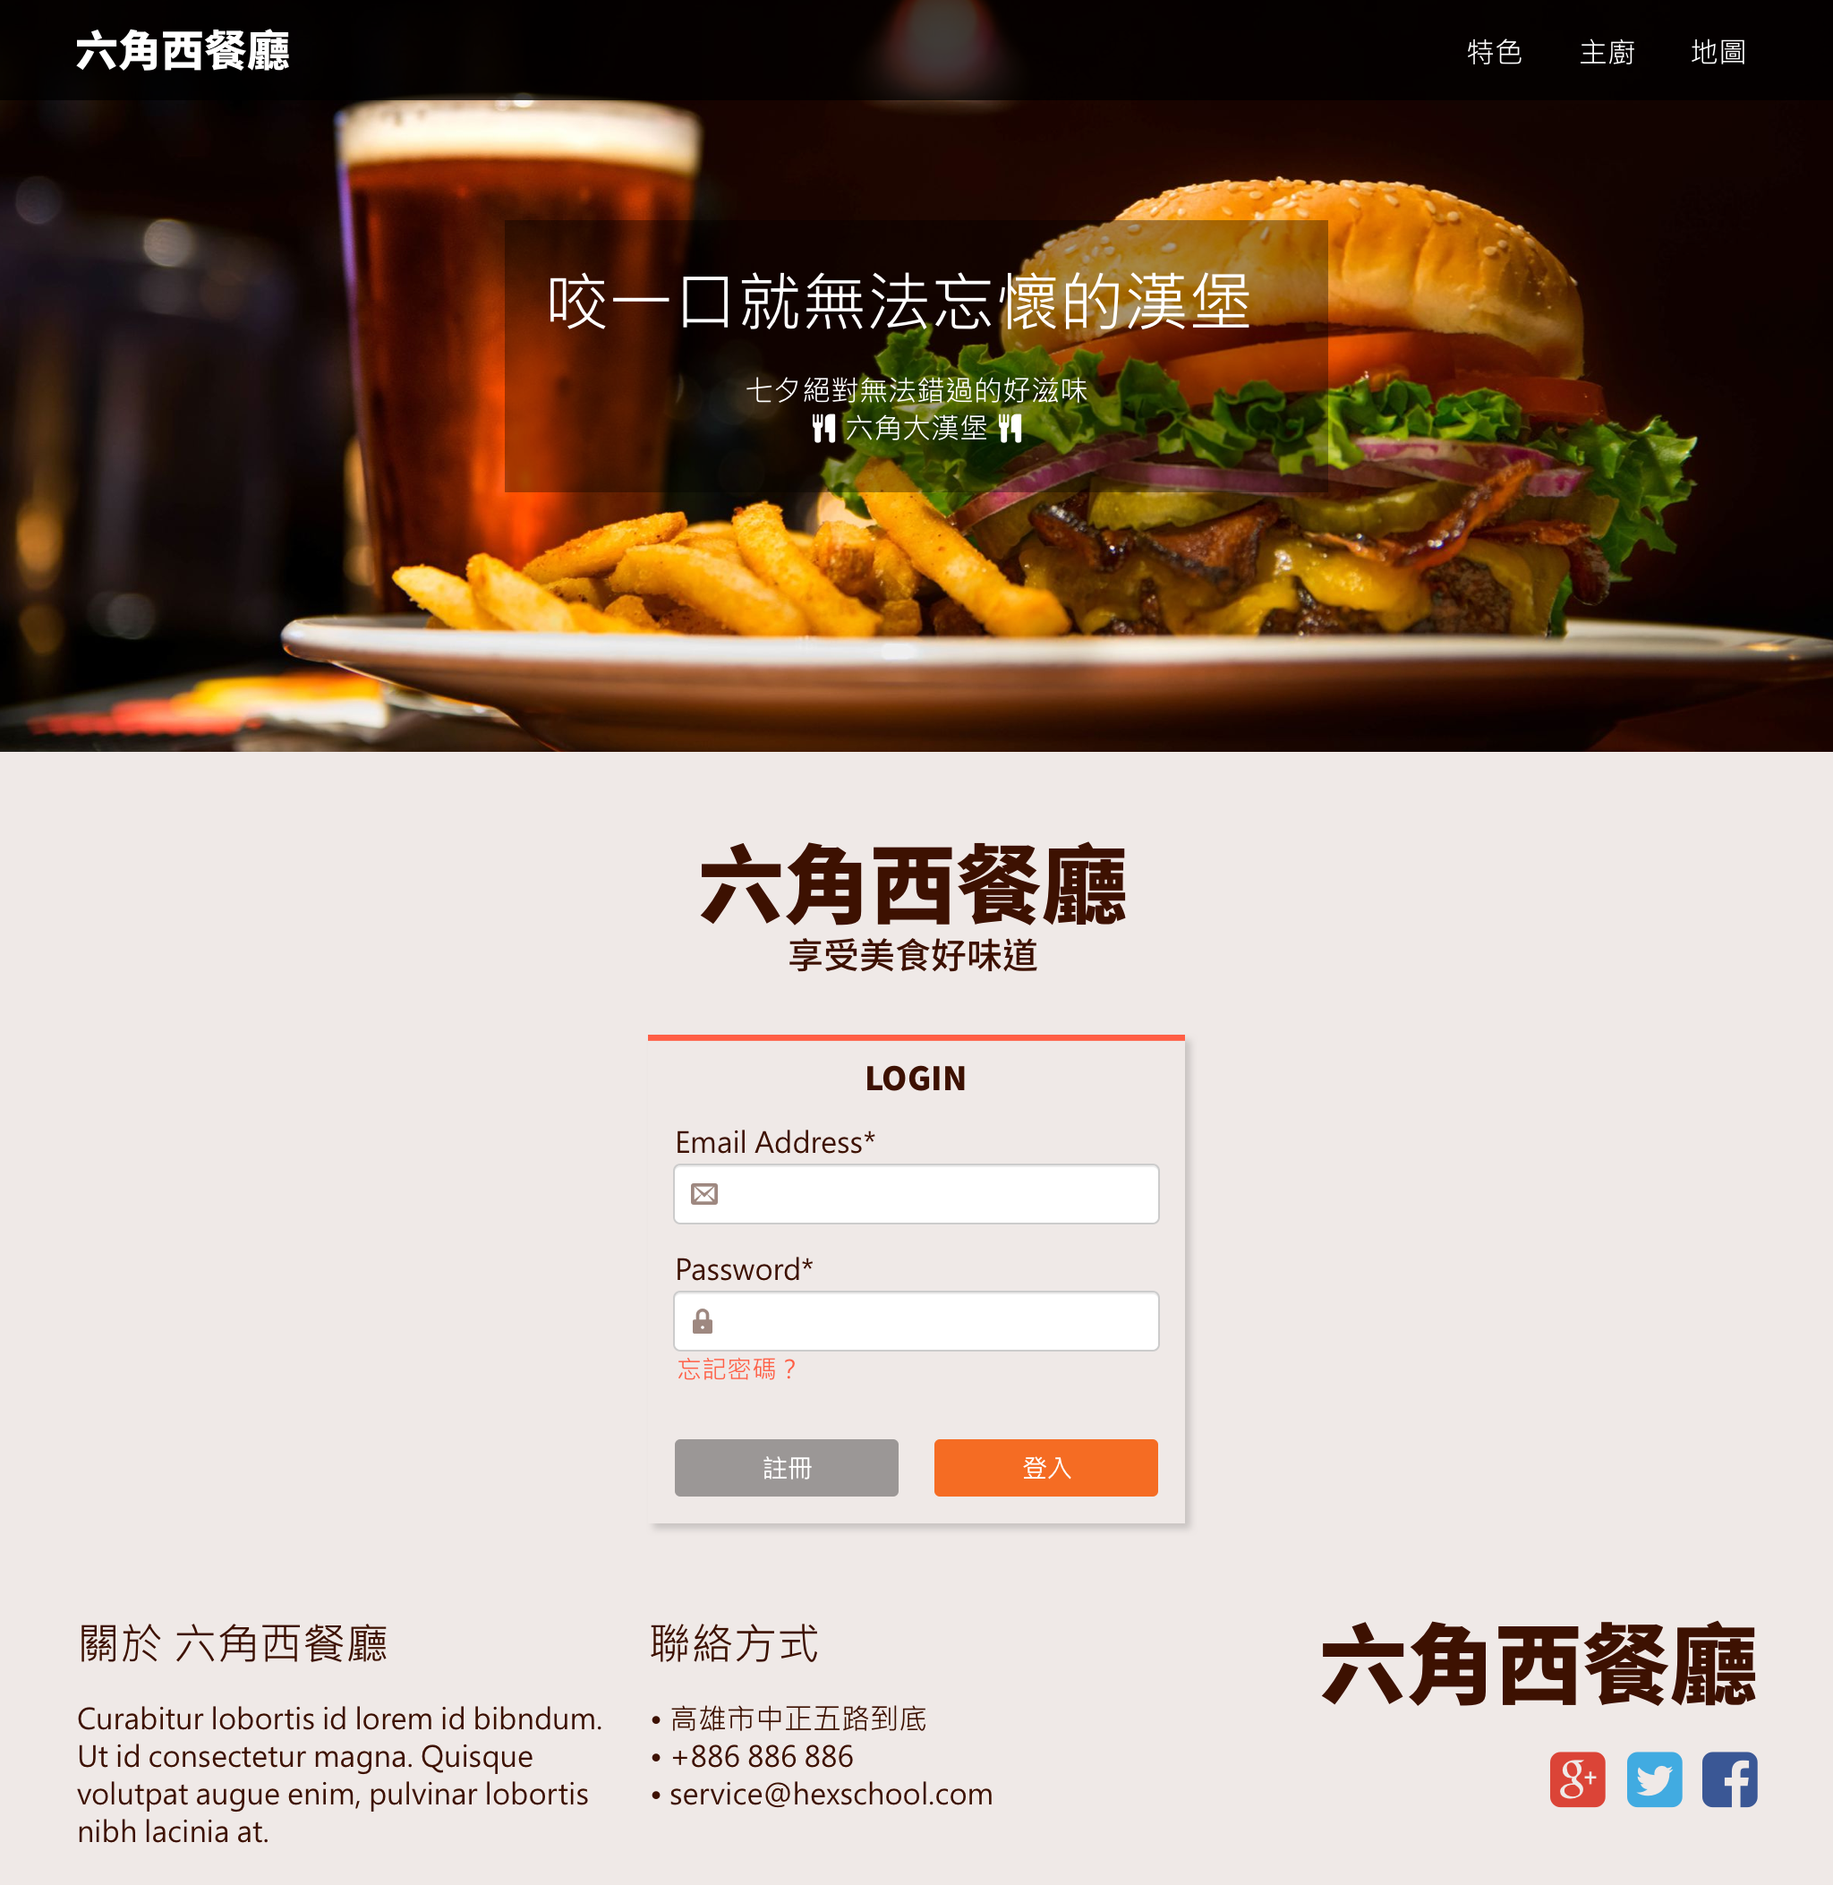
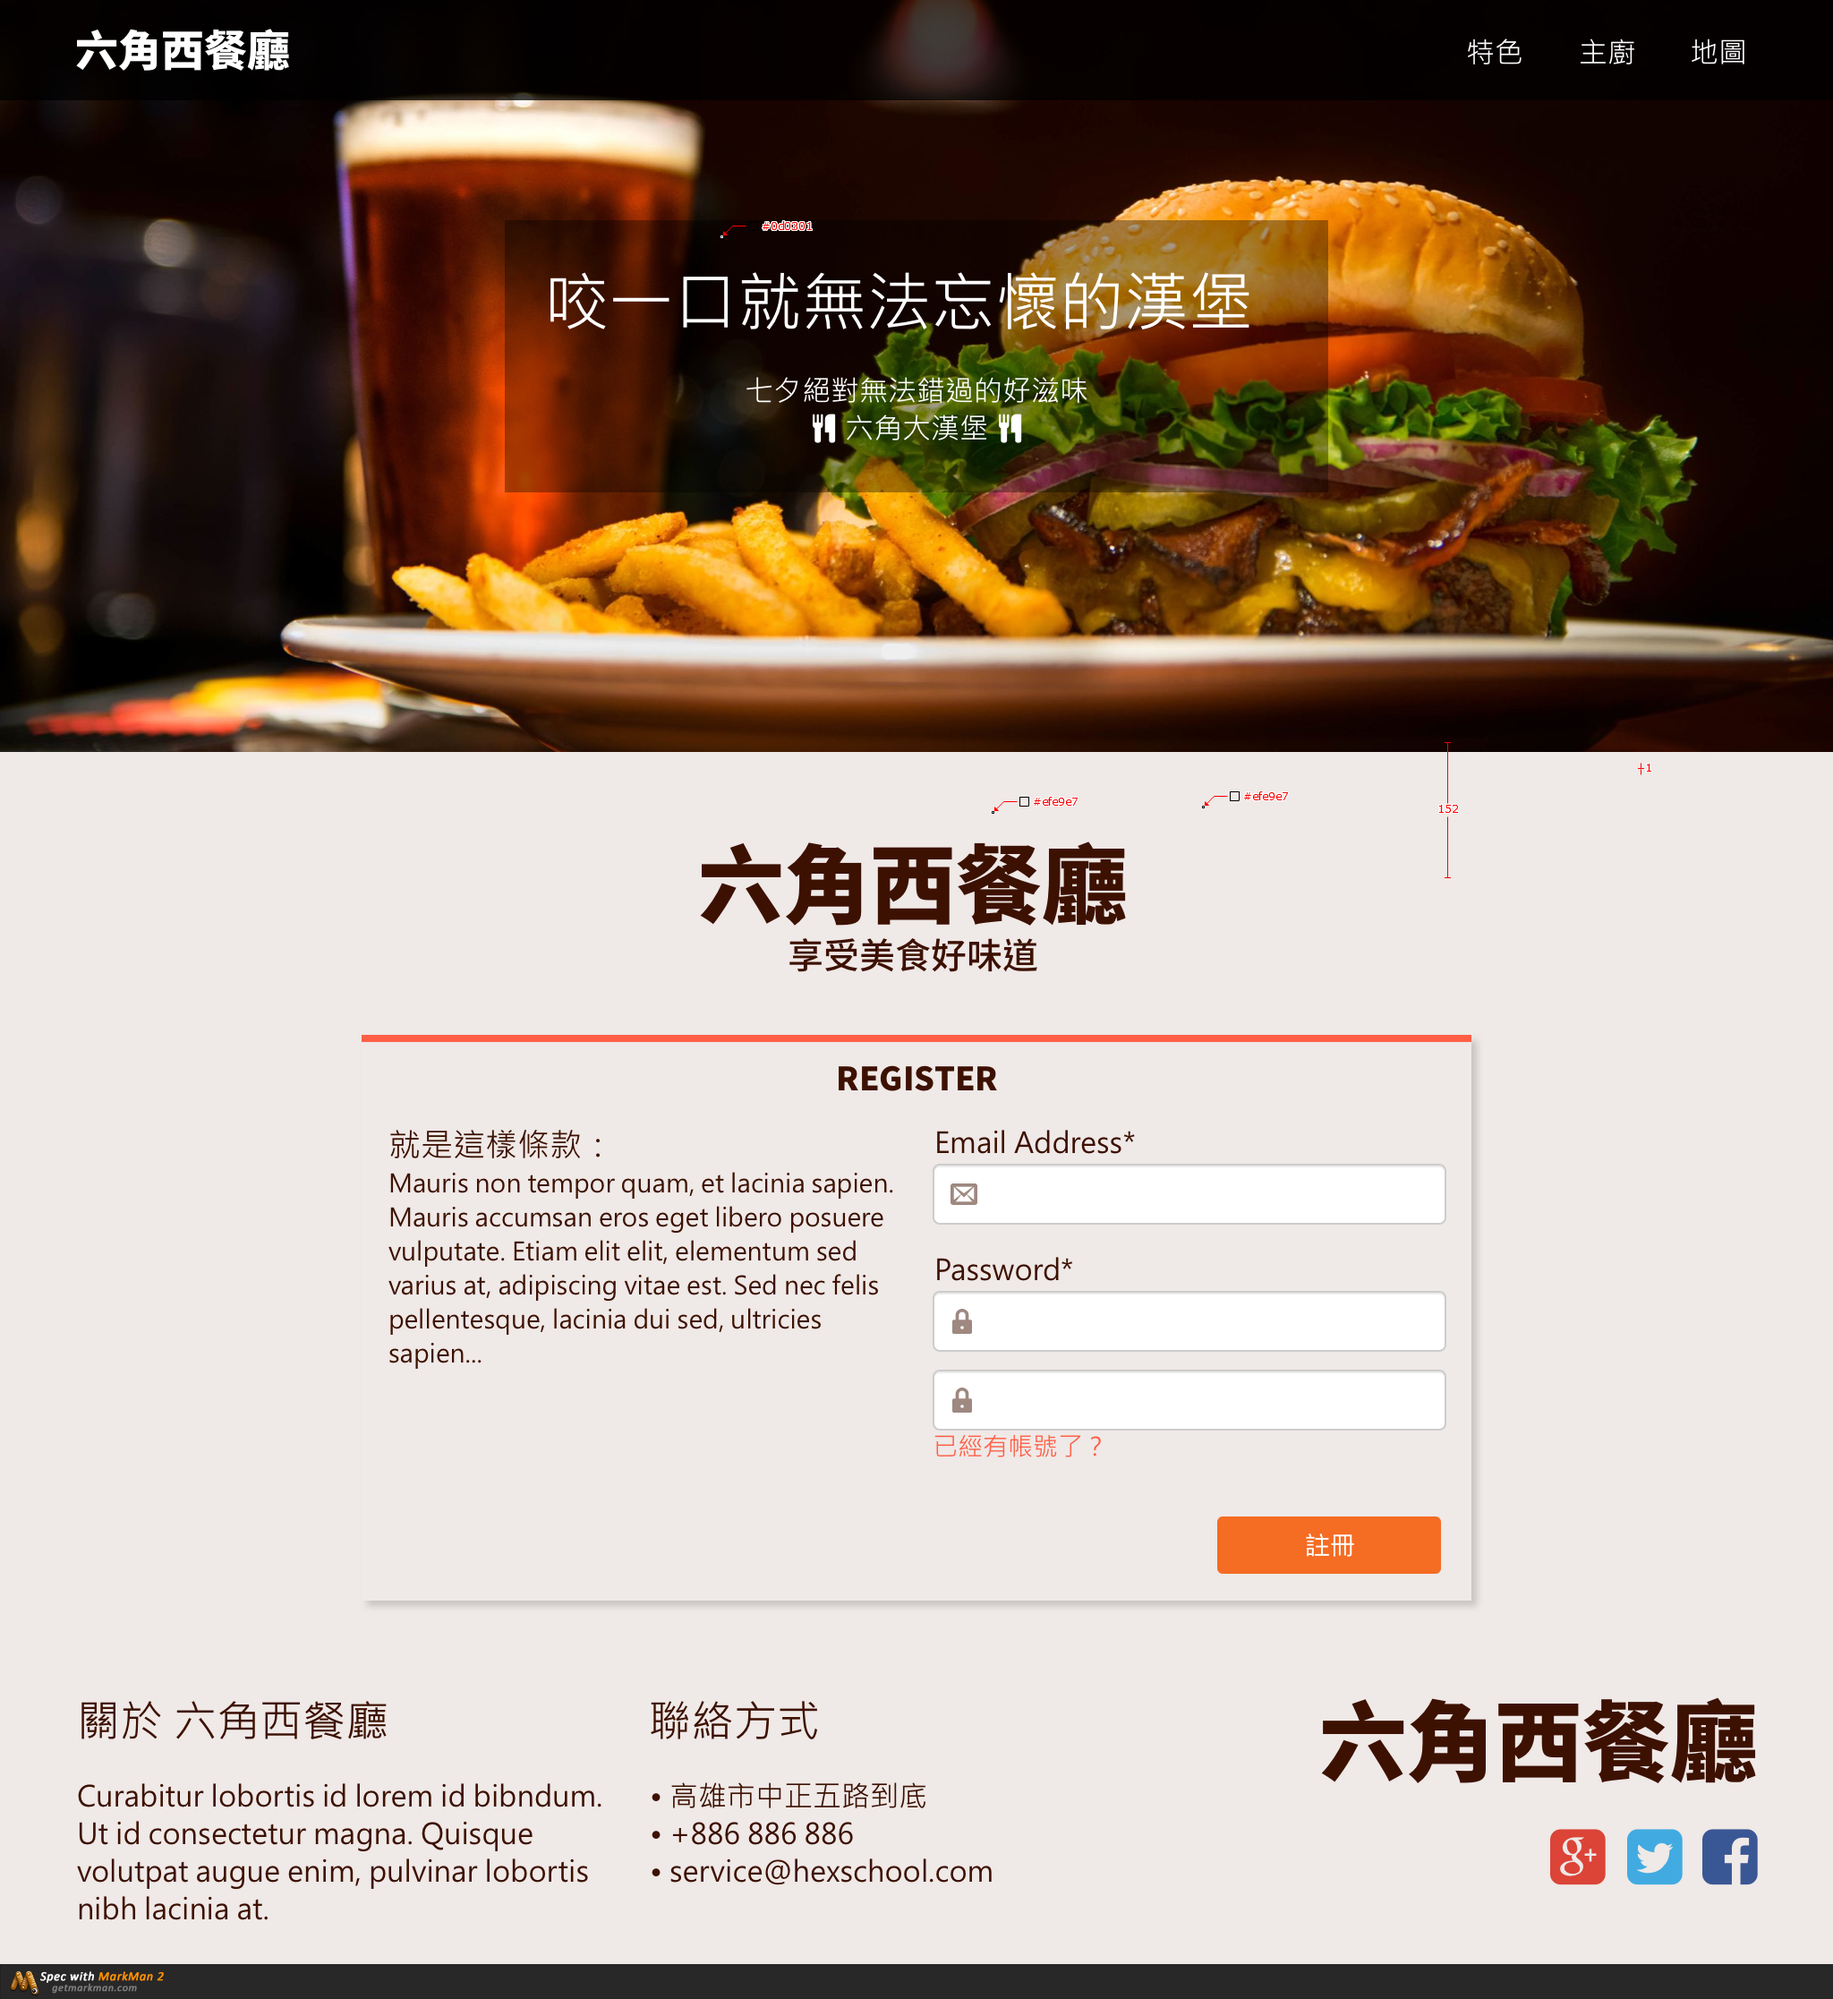
complete 1

diff --git a/index.html b/index.html
@@ -12,41 +12,137 @@
 <body>
 
 
+    <div class="wrap">
+        <!--top-->
 
-    <!--top-->
+        <div class="header">
 
-    <div class="header">
+            <div class="svgdiv">
 
-        <div class="logodiv">
+                <h1>
+                    <a href="#123">六角西餐廳</a>
 
-            <img src="img/logo_w.svg" alt="" class="svg">
+
+                </h1>
+
+            </div>
+
+            <div class="pdiv">
+                <h2>咬一口就無法忘懷的漢堡</h2>
+                <p>光棍節絕對不能錯過的好滋味</p>
+                <p>六角大漢堡</p>
+            </div>
+
+
+            <div class="uldiv">
+                <ul class="topmenu">
+                    <li><a href="">特色</a> </li>
+                    <li><a href="">主廚</a></li>
+                    <li><a href="">地圖</a></li>
+                </ul>
+            </div>
+
 
         </div>
-       
-        <div class="pdiv">
-            <h2>咬一口就無法忘懷的漢堡</h2>
-            <p>光棍節絕對不能錯過的好滋味</p>
-            <p>六角大漢堡</p>
-        </div>
-   
 
-        <div class="uldiv">
-            <ul class="topmenu">
-                <li><a href="">特色</a> </li>
-                <li><a href="">主廚</a></li>
-                <li><a href="">地圖</a></li>
-            </ul>
+
+        <div class="section">
+            <!--middle-->
+            <div class="middle">
+
+                <div class="h2img">
+                    <img src="img/logo_l2.svg" alt="">
+                    <h4>享受美食好味道</h4>
+                </div>
+
+                <div class="msn">
+                    <h4>register</h4>
+
+                    <div class="signin">
+
+
+
+                        <div class="leftpdiv">
+                            <p>條款:<br>
+                                A warning sign is a type of sign which indicates a potential hazard, obstacle, or
+                                condition
+                                requiring special attention. Some are traffic signs that indicate hazards on roads that
+                                may not
+                                be readily apparent to a driver. A warning sign is a type of sign which indicates a
+                                potential hazard, obstacle, or condition
+                                requiring special attention. Some are traffic signs that indicate hazards on roads that
+                                may not
+                                be readily apparent to a driver.</p>
+                        </div>
+
+                        <div class="form">
+                            <form>
+                                <label for="account">Email Address*</label> <br>
+                                <input type="email" class="input"> <br> <br>
+                                <label for="password">Password*</label> <br>
+                                <input type="email" class="input"><br>
+                                <input type="email" class="input"><br>
+                                <button type="button" class="btn">註冊</button>
+                            </form>
+                        </div>
+
+
+                    </div>
+
+
+                </div>
+
+            </div>
+
+
+            <!--bottom-->
+            <div class="footer">
+                <div class="leftdiv">
+                    <div class="ldiv">
+                        <h3>關於  六角餐廳</h3>
+                        <p> A warning sign is a type of sign which indicates a potential hazard, obstacle, or condition
+                            requiring special attention. Some are traffic signs that indicate hazards on roads that may
+                            not
+                            be readily apparent to a driver. A warning sign is a type of sign which indicates a
+                         </p>
+                    </div>
+                    <div class="rdiv">
+                        <h3>聯絡方式</h3>
+                        <ul>
+                            <li>高雄市前鎮區中山路23號</li>
+                            <li>+886-123-456</li>
+                            <li>service@gamil.com</li>
+                        </ul>
+                    </div>
+
+                </div>
+
+                <div class="rightdiv">
+
+                    <div class="h3img">
+                        <img src="img/logo_l2.svg" alt="">
+                    </div>
+                    <ul class="bottomlogo">
+                        <li class="lilogo"><a href="#">
+                            <img src="img/opt.png" alt="">
+                        </a></li>
+                       
+                        <li class="lilogo"><a href="#">
+                                <img src="img/twitterIcon.png" alt="">
+                            </a></li>
+                            <li class="lilogo"><a href="#">
+                                <img src="img/facebookIcon.png" alt="">
+                            </a></li>
+                    </ul>
+                </div>
+                
+            
+            </div>
+
         </div>
 
 
     </div>
-
-    <!--middle-->
-    <div class="middle"></div>
-
-    <!--bottom-->
-    <div class="footer"></div>
-
 
 
     <script src="js/all.js"></script>

diff --git a/css/all.css b/css/all.css
@@ -47,6 +47,8 @@ table {
 	border-spacing: 0;
 }
 
+/*css reset*/
+
 
 .header{
     
@@ -58,28 +60,39 @@ table {
    display: flex;
    justify-content: space-between;
  
-
  
 }
 
-.svg{
-    padding: 20px;
-    margin-left: 30px;
-}
 
+
+h1 a{
+    display: block;
+    width: 120px;
+    height: 24px;
+    background-image: url(../img/logo_w.svg);
+    background-repeat: no-repeat;
+    background-position: center center;
+  
+    padding: 15px;
+    margin-left: 40px;
+    text-indent: 120%;
+    overflow: hidden;
+    white-space: nowrap;
+   
+}
 
 .topmenu{
     display: flex;
 }
 
-li{
+.topmenu li{
  text-align: center;
  line-height: 2;
 padding: 10px;
 
 }
 
-a{
+.topmenu li a{
     display: block;
     width: 80px;
     height: 30px;
@@ -103,16 +116,139 @@ a:hover{
     height: 300px;
     margin: 120px;
 }
-h2{
+.pdiv h2{
    
     color: white;
     font-size: 36px;
     font-weight: 700;
     color: hsl(100%, 100%, 100%);
 }
-p{
+.pdiv p{
    
     color: white;
     font-size: 24px;
     margin-top: 20px;
+}
+
+.section {
+background-color: #efe9e7;
+}
+
+.middle{
+
+
+  width: 800px;
+    margin: 0 auto;
+}
+
+.h2img{
+    text-align: center;
+    
+    padding: 50px;
+}
+.h2img h4{
+    font-weight: 700;
+    margin-top: 5px;
+
+}
+.msn{
+    border: 2px #d0cac9 solid;
+    border-top: 2px orangered solid;
+
+}
+
+.msn h4{
+    text-align: center;
+    font-size: 24px;
+    font-weight: 600;
+    margin-bottom: 15px;
+    margin-top: 10px;
+    
+}
+.signin{
+    
+    display: flex; 
+    justify-content: space-evenly;
+
+}
+
+
+.leftpdiv p{
+    
+    width: 300px;
+    line-height: 1.2;
+   
+}
+.form{
+    margin-left: 20px;
+ 
+ 
+}
+
+.input{
+    padding: 5px;
+    margin-top: 5px;
+    margin-bottom: 5px;
+    width: 300px;
+}
+
+.btn{
+    color:white ;
+    background-color: orangered;
+    width: 120px;
+    height: 30px;
+  margin-top: 50px;
+  margin-left: 190px;
+  margin-bottom: 20px;
+   
+}
+
+.footer{
+    margin-top: 100px;
+    display: flex;
+    justify-content: space-between;
+}
+.leftdiv{
+    display: flex; 
+}
+.leftdiv p{
+    width: 300px;
+   
+}
+.leftdiv h3{
+
+margin-left: 30px;
+font-weight: 600;
+font-size: 20px;
+}
+
+.leftdiv p{
+    padding: 20px;
+    margin: 10px;
+}
+
+.leftdiv ul{
+    margin-top: 30px;
+    margin-left: 50px;
+}
+
+.leftdiv li{
+padding: 3px;
+list-style-type: disc;
+}
+
+.rightdiv{
+margin-right: 30px;    
+}
+
+
+.bottomlogo{
+    display: flex;  
+    justify-content: flex-end;
+    margin-top: 15px;
+  
+}
+
+.lilogo{
+    margin-right: 5px;
 }
